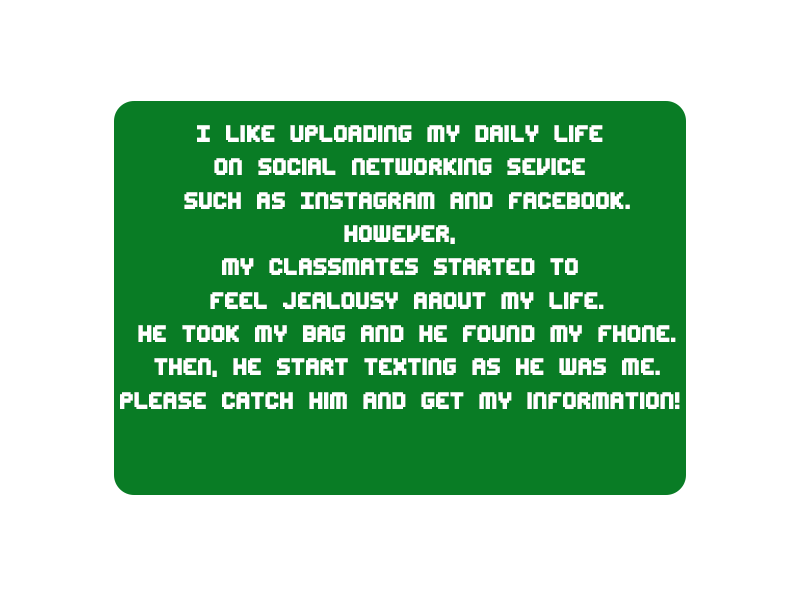
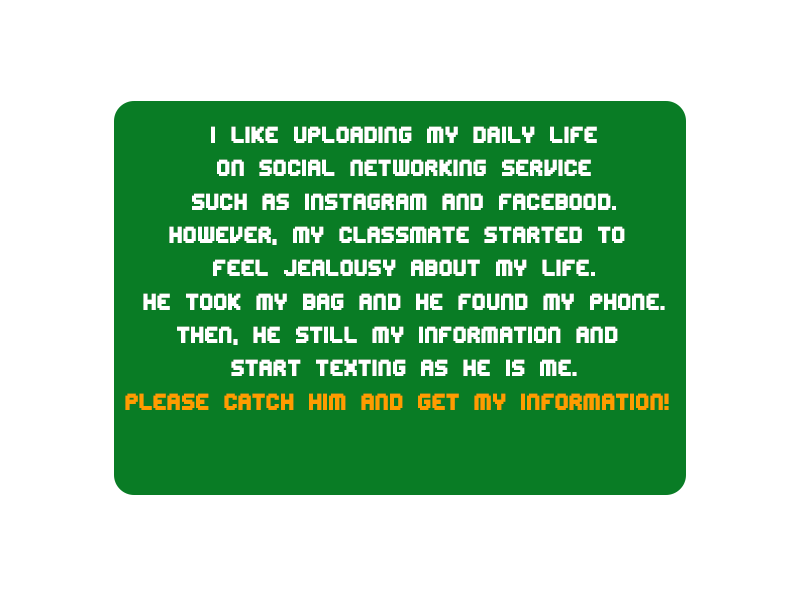
add stage2 start page

Changed region(s): [[0.125, 0.2118, 0.875, 0.6958]]

diff --git a/src/js/scenes/BootScene.js b/src/js/scenes/BootScene.js
@@ -73,7 +73,8 @@ class BootScene extends BaseScene {
         this.load.image("continue","./src/img/continue_y.png");
         this.load.image("first_intro_2","./src/img/first_intro_2.png");
         this.load.image("go","./src/img/go.png");
-
+        this.load.image("second_intro_1","./src/img/second_intro_1.png");
+        this.load.image("second_intro_2","./src/img/second_intro_2.png");
 
         this.load.spritesheet("cat", "./src/img/cat.png", {
             frameHeight: 32,
@@ -136,7 +137,8 @@ class BootScene extends BaseScene {
         this.load.image("hpPotion", "./src/img/hp_potion.png");
         this.load.image("speedPotion", "./src/img/speed_potion.png");
         this.load.image("levelupImg", "./src/img/Levelup.png");
-        this.load.image("gameoverImg", "./src/img/Game_over.png");        
+        this.load.image("gameoverImg", "./src/img/Game_over.png");
+        
 
         // for ch2 game's bad words
         for (let index = 1; index < 19; index++) {

diff --git a/src/js/scenes/PreSecond.js b/src/js/scenes/PreSecond.js
@@ -1,0 +1,31 @@
+import BaseScene from "./BaseScene";
+
+// playGame scene
+class PreSecond extends BaseScene {
+    constructor(test) {
+        super({
+            key: 'PreSecond'
+        });
+    }
+
+    create(){
+
+    // setting the back ground
+    this.background = this.add.sprite(this.game.config.width / 2, this.game.config.height / 2, 'secondBackground');
+    this.background.setDisplaySize(this.game.config.width, this.game.config.height);
+    this.add.image(0, 0, "second_intro_1").setOrigin(0).setDepth(0);
+
+    let conti= this.add.image(400,430,"continue");
+
+        conti.setInteractive();
+        conti.on("pointerup",()=>{
+            this.scene.switch('PreSecond2');
+        })
+    }
+    update(){
+    
+    }
+
+};
+
+export default PreSecond;

diff --git a/src/js/scenes/PreSecond2.js b/src/js/scenes/PreSecond2.js
@@ -1,0 +1,29 @@
+import BaseScene from "./BaseScene"
+
+class PreSecond2 extends BaseScene{
+
+    constructor(test){
+        super({
+            key: 'PreSecond2'
+        });
+    }
+
+    create(){
+        this.background = this.add.sprite(this.game.config.width / 2, this.game.config.height / 2, 'secondBackground');
+        this.background.setDisplaySize(this.game.config.width, this.game.config.height);
+    this.add.image(0, 0, "second_intro_2").setOrigin(0).setDepth(0);
+
+
+        let go = this.add.image(400,450,"go");
+
+            go.setInteractive();
+            go.on("pointerup",()=>{
+                this.scene.switch('SecondGameScene');
+            })
+    }
+    update(){
+
+    }
+};
+
+export default PreSecond2;

diff --git a/src/index.js b/src/index.js
@@ -15,6 +15,9 @@ import SecondGameScene from './js/scenes/SecondGameScene';
 import PreFirst from './js/scenes/PreFirst';
 import PreFirst2 from './js/scenes/PreFirst2';
 
+import PreSecond from './js/scenes/PreSecond';
+import PreSecond2 from './js/scenes/PreSecond2';
+
 
 import SimulationScene from './js/scenes/SimulationScene';
 
@@ -45,7 +48,9 @@ const config = {
         FirstGameScene,
         SecondGameScene,
         PreFirst,
-        PreFirst2
+        PreFirst2,
+        PreSecond,
+        PreSecond2
     ]
 };
 

diff --git a/src/js/scenes/WorldMap.js b/src/js/scenes/WorldMap.js
@@ -50,7 +50,7 @@ class WorldMap extends BaseScene {
             this.scene.switch('PreFirst');
         })
         this.UsaFlag.on("pointerup", () => {
-            this.scene.switch('SecondGameScene');
+            this.scene.switch('PreSecond');
         })
     }
     // update(){

diff --git a/src/js/scenes/PreFirst.js b/src/js/scenes/PreFirst.js
@@ -27,6 +27,4 @@ class PreFirst extends BaseScene {
 
 };
 
-
-
 export default PreFirst;
